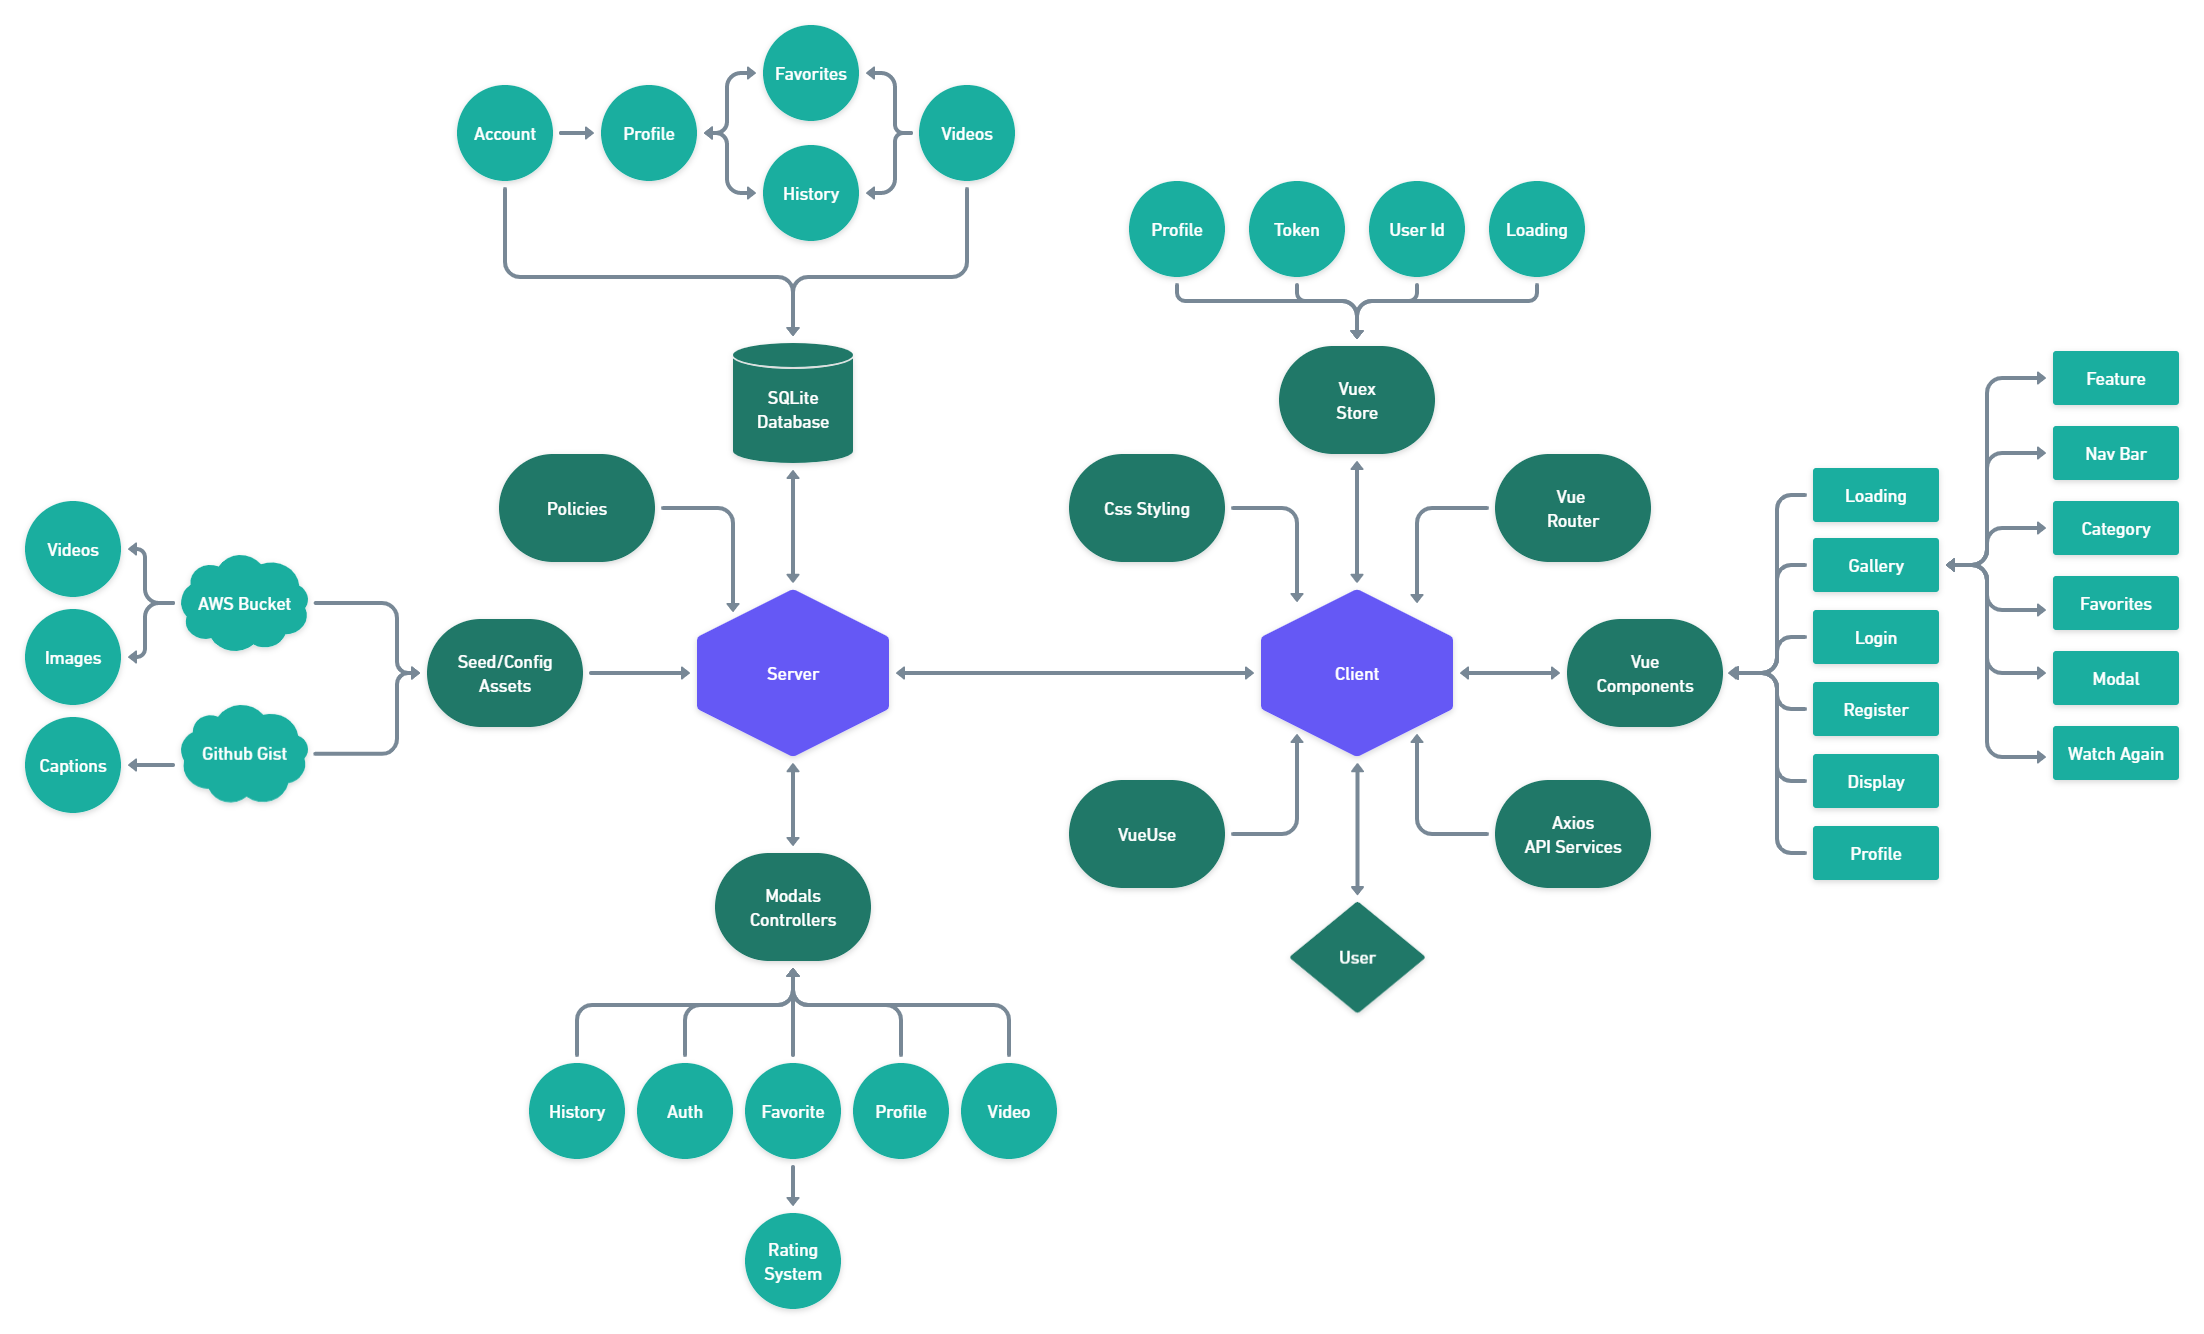
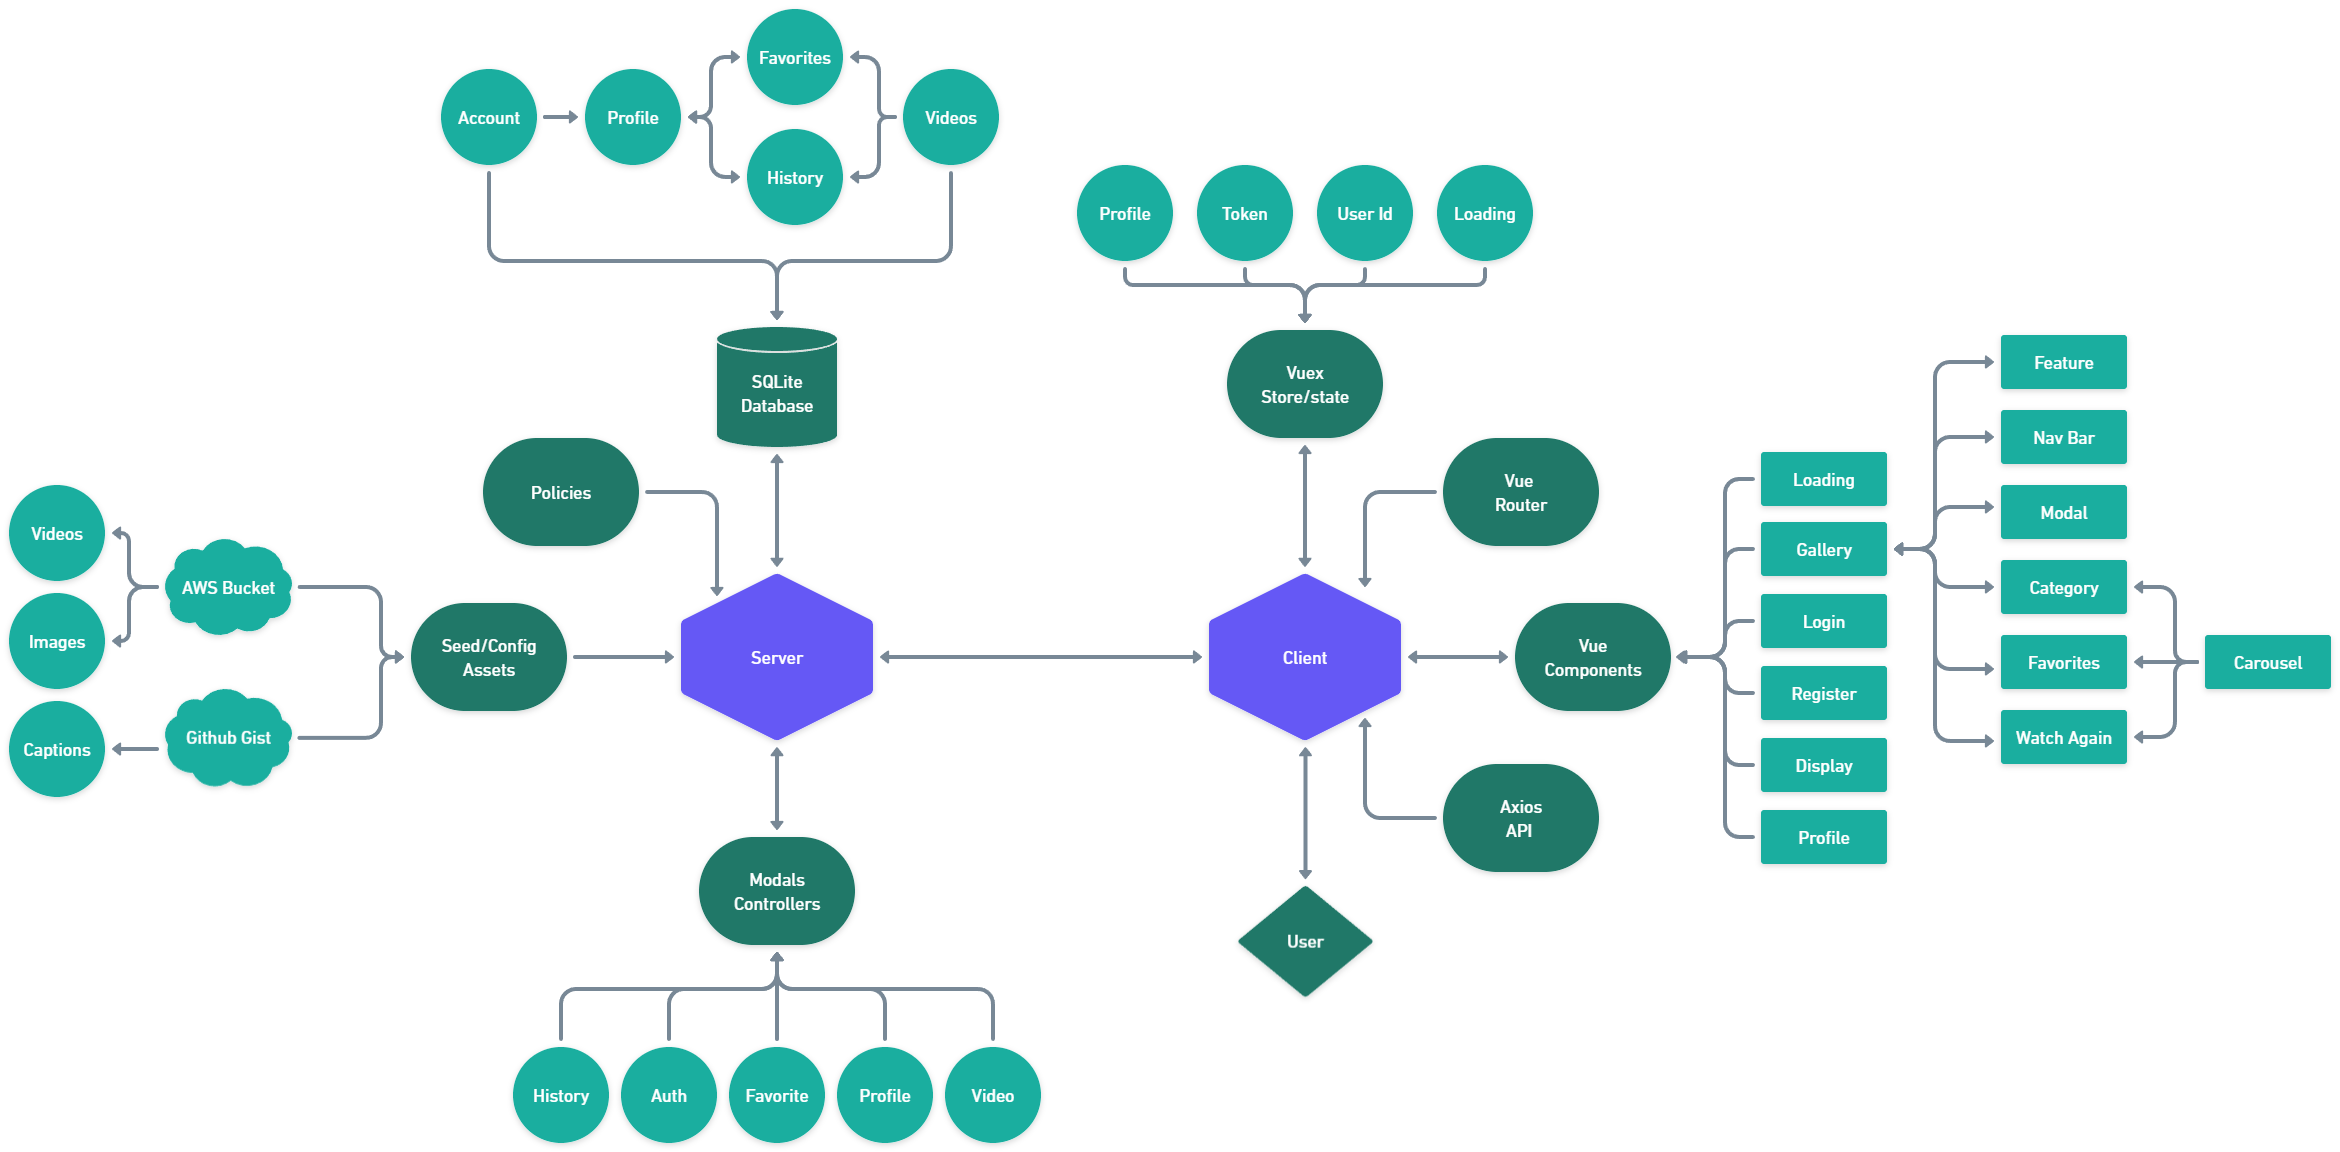
general updates

Changed region(s): [[0.0, 0.0, 1.0, 0.875], [0.216, 0.9062, 0.4628, 1.0], [0.5245, 0.75, 0.5862, 0.875]]

diff --git a/README.md b/README.md
@@ -1,6 +1,6 @@
 # Netflix-Clone
 ## Objective
-> A web app for my capstone project, replicating Netflix with my childhood VHS tapes using mordern technologies. Shares complex functions, layouts, and interactions of popular streaming sites. My goal of this project is to prepare myself and learn the industry standard of web development on a full-stack level, using all my own assets. With little to no previous knowledge, I'm testing how well I'm able to adapt and learn new web and software techniques in under a 4 month timeframe.
+> A web app for my capstone project, replicating Netflix with my childhood VHS tapes using mordern technologies. Shares complex functions, layouts, and interactions of popular streaming sites. My goal of this project is to prepare myself and learn the industry standard of web development on a full-stack level, using all my own assets
 
 ## Content
 [Tech Stack](https://github.com/BrenanMarenger/Capstone-Project#tech-stack)
@@ -32,10 +32,8 @@
 ## Tools
 ### Client
 * **Vue Router**    - allow multi-page navigation, redirection 
-* **Vuex**          - persistedstate, stores states (token, loading, user id, etc.)
+* **Vuex**          - persistedstate, stores states (token, loading, user id)
 * **Axios**         - API to make HTTP requests to my server
-* **Vuetify?** - TBD component based styling library
-* **Scss?** - TBD make styling easier
 * **Google Icons** - SVG icons
 * **VueUse** - Vue library providing additional hooks, event listeners (onClickOutside, Screen Observer)
 ### Server
@@ -43,13 +41,10 @@
 * **Postman**     - server endpoint functional, integration, and regression testing
 * **DB Browser for SQLite** - help visualize and build tables in the database
 * **Nodemon**       - restarts server when a change is detected (QoL)
-* **Eslint**        - help debug and find issues
-* **Bcrypt**        - password hashing
-* **Bluebird**      - allows promisifying node modules (async)
-* **Morgan**        - logs requests, helps visualize server interactions 
-* **Joi**           - used to enfore email and password schema
+* **Eslint**        - debugger
+* **Bcrypt**        - password hashing 
+* **Joi**           - enfore email and password schema
 * **JWT**           - "JSON Web Token" generates user token for logged in users
-* **Cors**          - fetching resources 
 ### Misc
 * **Whisper**     - API to generate captions
 * **Whimsical**   - Visualizing and planning project
@@ -58,23 +53,25 @@
 ## Features
 * Account system with personal favorites and watch history (resuming where left off)
 * Top 5 rating system based on favorites from all accounts
-* Modal showing related videos (based on shared categories)
+* Modal showing related videos (shared categories)
 * Authentication with appropriate redirection, token storage, policies, and hashing
 * Custom video player with keybinds and a variety of features, including ai generated captions
-* Dynamic gallery page with different featured videos and changing arrangements of categories/videos
+* Dynamic gallery page, with multiple categories
 * Scalable project, adapting to new videos, users, and data. Automatically adding new categories and filters
 * Dynamic searching and filtering (combinations work), query urls/links
 * Seamless UI/UX interaction with responsive and dynamic buttons, transitions and animations, lazy/skeleton loading
+* Custom Carousel with index tabs and dynamic scrolling
 
 
 ## Screenshots
 Coming Soon
 
 ## TODO
+
+* Vitest for testing components
+* Multiple profile system for each account to have many users
 * Calculated "Match" system, based on favorited videos shared categories (weighted higher on appearing more)
-* Vitest for testing
-* Profile system for each account
-* Cast section
+* More videa api data, cast section, rating
 * Increase search/filtering capabilities
 * Passport for better authenticaiton
 * Deploy to host
@@ -85,8 +82,8 @@ Coming Soon
 * Typescript - came accross ambiguous typing issues, leading to some DB problems 
 * Scss - better organized, easier to read, and use for CSS 
 * Vue 3 - more up-to-date, more features, easier configuration with imported tools
-* Methodology - follow an agile system while developing a more consistent, effient, and fine-tuned product
-* Better Practices - small code organization and optimization techniques that I've picked up on
+* Rich Server - too much functionality on the client-side, distribution of data for performance
+* Refractor - organize code better, specifically html tags, component usage, easier to read  
 
 
 
